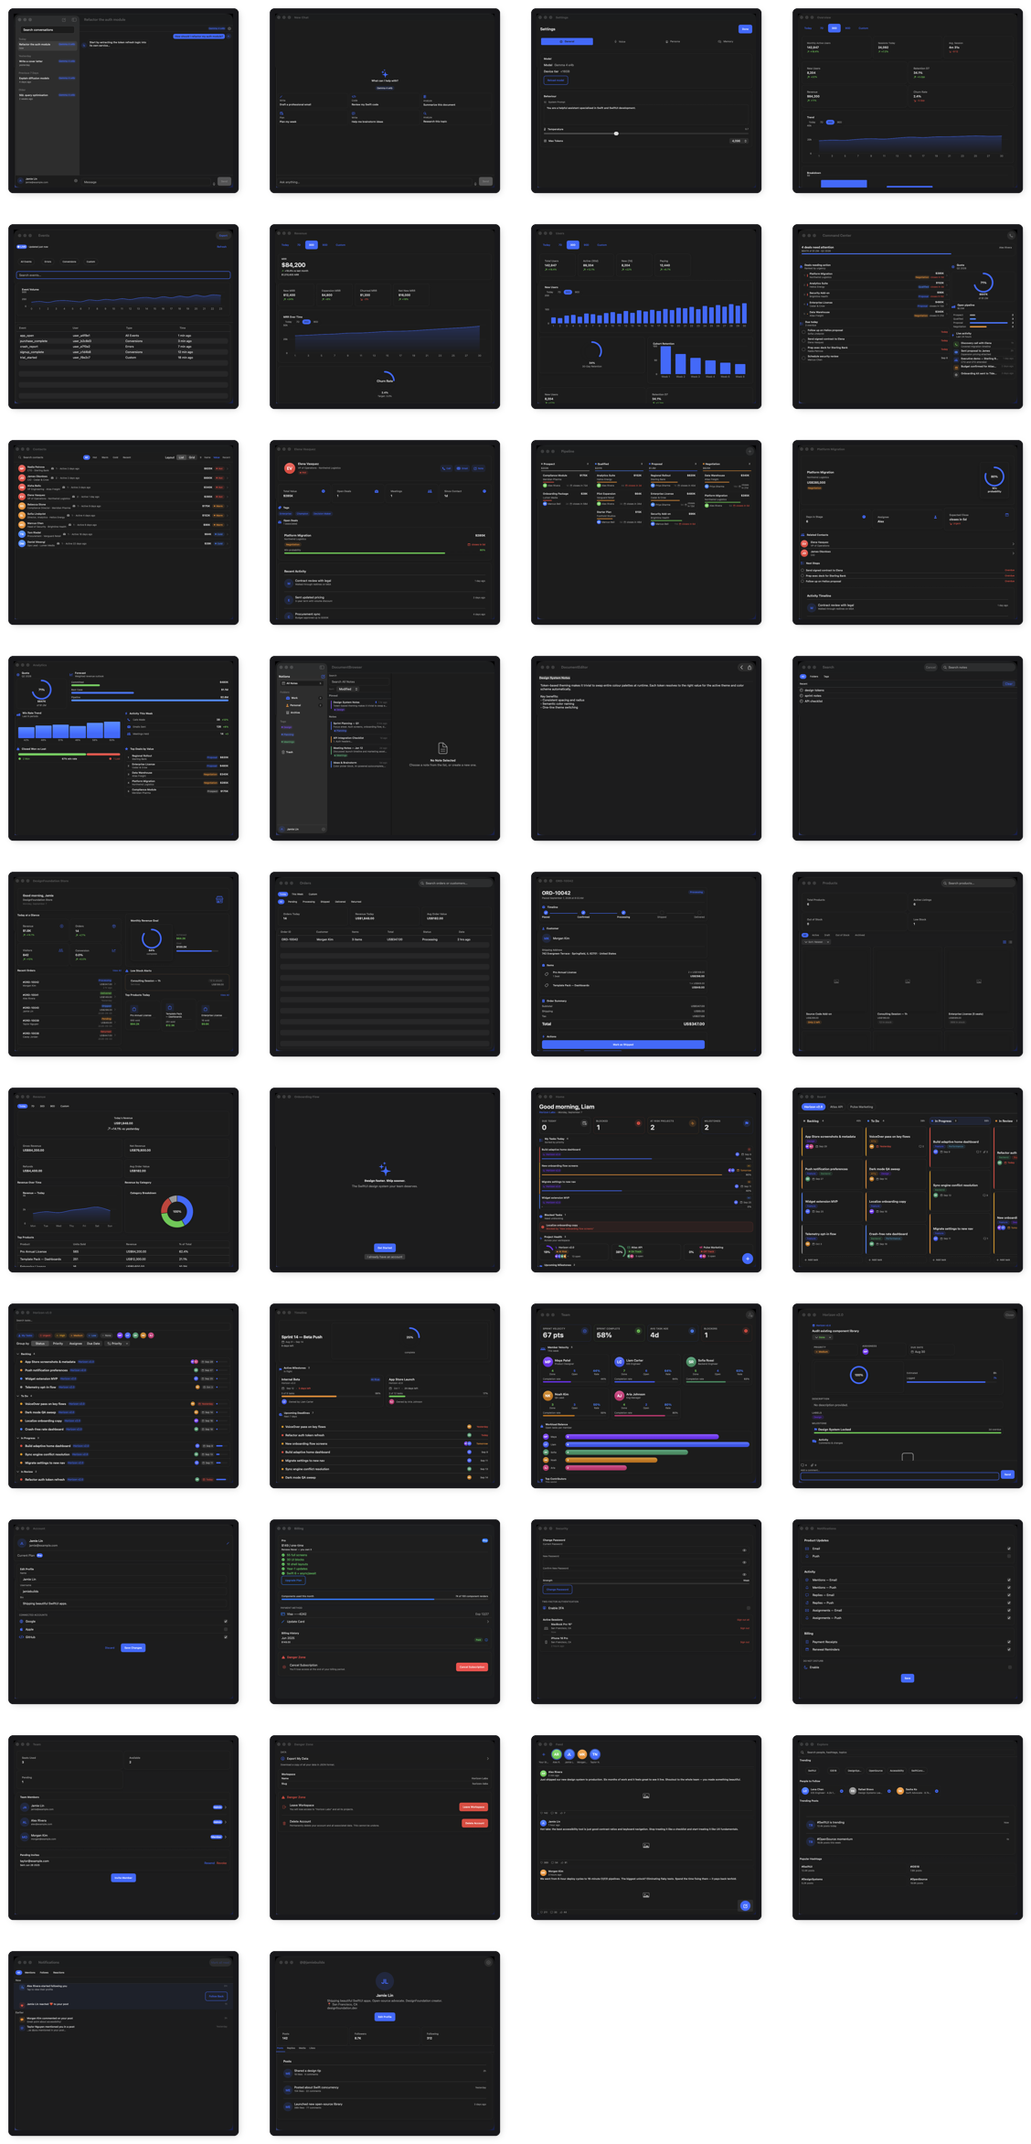
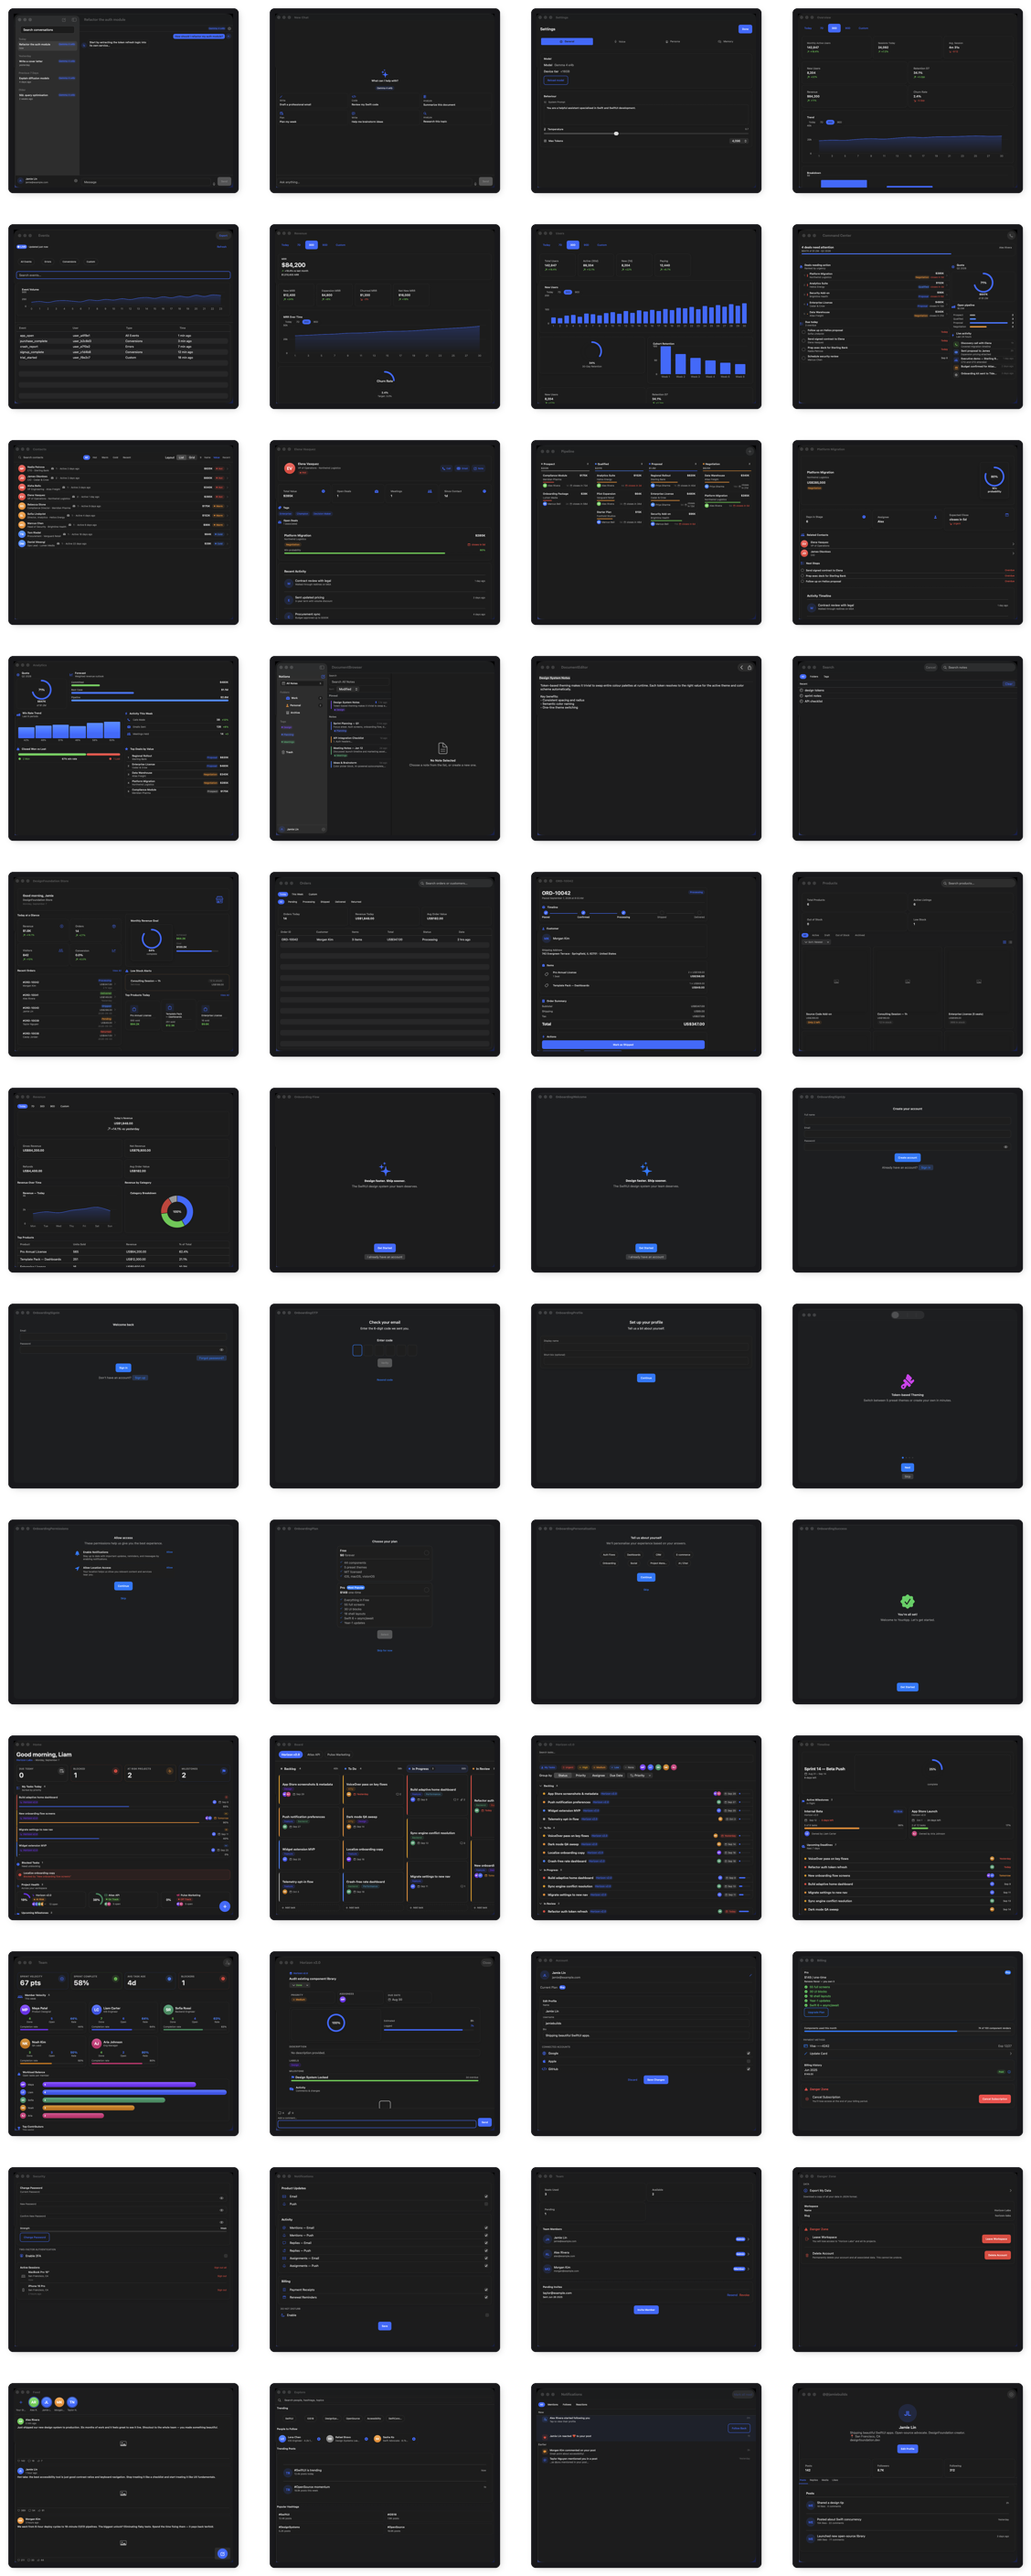
Screenshot manifest: add the 10 missing Onboarding Pro screens
The Pro Screens manifest only had the interactive DFOnboardingFlow demo;
the 10 individual DFOnboarding*Screen structs (Welcome, Sign Up, Sign In,
OTP, Profile, Features, Permissions, Plan, Personalisation, Success) had
no manifest entry, so Pro-Screens.strip.png and docs were stuck showing
47 screens instead of the current 55 (verified via
grep -rhoE '^public struct [A-Za-z0-9]+Screen\b' Sources in
DesignFoundationPro: 55 total across 12 verticals).

- Add the 10 onboarding screen entries to _pro_screens(), matching the
  new automation hooks added in DFPlayground's ScreenFocusView.swift.
- Recapture only the Pro Screens group (--only) and regenerate its strip
  and Content/index.md; every other group's committed frames are
  untouched.
- Restore the hand-maintained 'Pro Upgrade' preview section in
  Content/index.md that a full regen silently drops (it isn't one of
  the script's generated categories) and fix the DesignFoundationPro
  cross-link to match the script's current markdown-link format.

diff --git a/scripts/generate_screenshot_catalog.py b/scripts/generate_screenshot_catalog.py
@@ -116,6 +116,16 @@ def _pro_screens() -> list[CaptureTarget]:
         ("DFNewsListScreen", "News/DFNewsListScreen.swift"),
         ("DFNewsDetailScreen", "News/DFNewsDetailScreen.swift"),
         ("DFOnboardingFlow", "Onboarding/DFOnboardingFlow.swift"),
+        ("DFOnboardingWelcomeScreen", "Onboarding/Screens/DFOnboardingWelcomeScreen.swift"),
+        ("DFOnboardingSignUpScreen", "Onboarding/Screens/DFOnboardingSignUpScreen.swift"),
+        ("DFOnboardingSignInScreen", "Onboarding/Screens/DFOnboardingSignInScreen.swift"),
+        ("DFOnboardingOTPScreen", "Onboarding/Screens/DFOnboardingOTPScreen.swift"),
+        ("DFOnboardingProfileScreen", "Onboarding/Screens/DFOnboardingProfileScreen.swift"),
+        ("DFOnboardingFeaturesScreen", "Onboarding/Screens/DFOnboardingFeaturesScreen.swift"),
+        ("DFOnboardingPermissionsScreen", "Onboarding/Screens/DFOnboardingPermissionsScreen.swift"),
+        ("DFOnboardingPlanScreen", "Onboarding/Screens/DFOnboardingPlanScreen.swift"),
+        ("DFOnboardingPersonalisationScreen", "Onboarding/Screens/DFOnboardingPersonalisationScreen.swift"),
+        ("DFOnboardingSuccessScreen", "Onboarding/Screens/DFOnboardingSuccessScreen.swift"),
         ("DFPMHomeScreen", "ProjectManager/DFPMHomeScreen.swift"),
         ("DFPMBoardScreen", "ProjectManager/DFPMBoardScreen.swift"),
         ("DFPMListScreen", "ProjectManager/DFPMListScreen.swift"),

diff --git a/Content/index.md b/Content/index.md
@@ -2,7 +2,7 @@
 
 Generated by `scripts/generate_screenshot_catalog.py` — do not edit by hand; re-run the script instead.
 
-Pro-tier entries (Pro Screens, Pro Blocks, Shell Layouts, Composition Examples) are cataloged separately in DesignFoundationPro's own index.
+Pro-tier entries (Pro Screens, Pro Blocks, Shell Layouts, Composition Examples) are cataloged separately in [DesignFoundationPro's own index](../../DesignFoundationPro/Content/index.md).
 
 ## Foundation
 
@@ -31,4 +31,3 @@ Pro-tier entries (Pro Screens, Pro Blocks, Shell Layouts, Composition Examples) 
 ![Pro Index](Groups/Pro-Index.strip.png)
 ![Pro Screens](Groups/Pro-Screens.strip.png)
 ![Pro Blocks](Groups/Pro-Blocks.strip.png)
-
